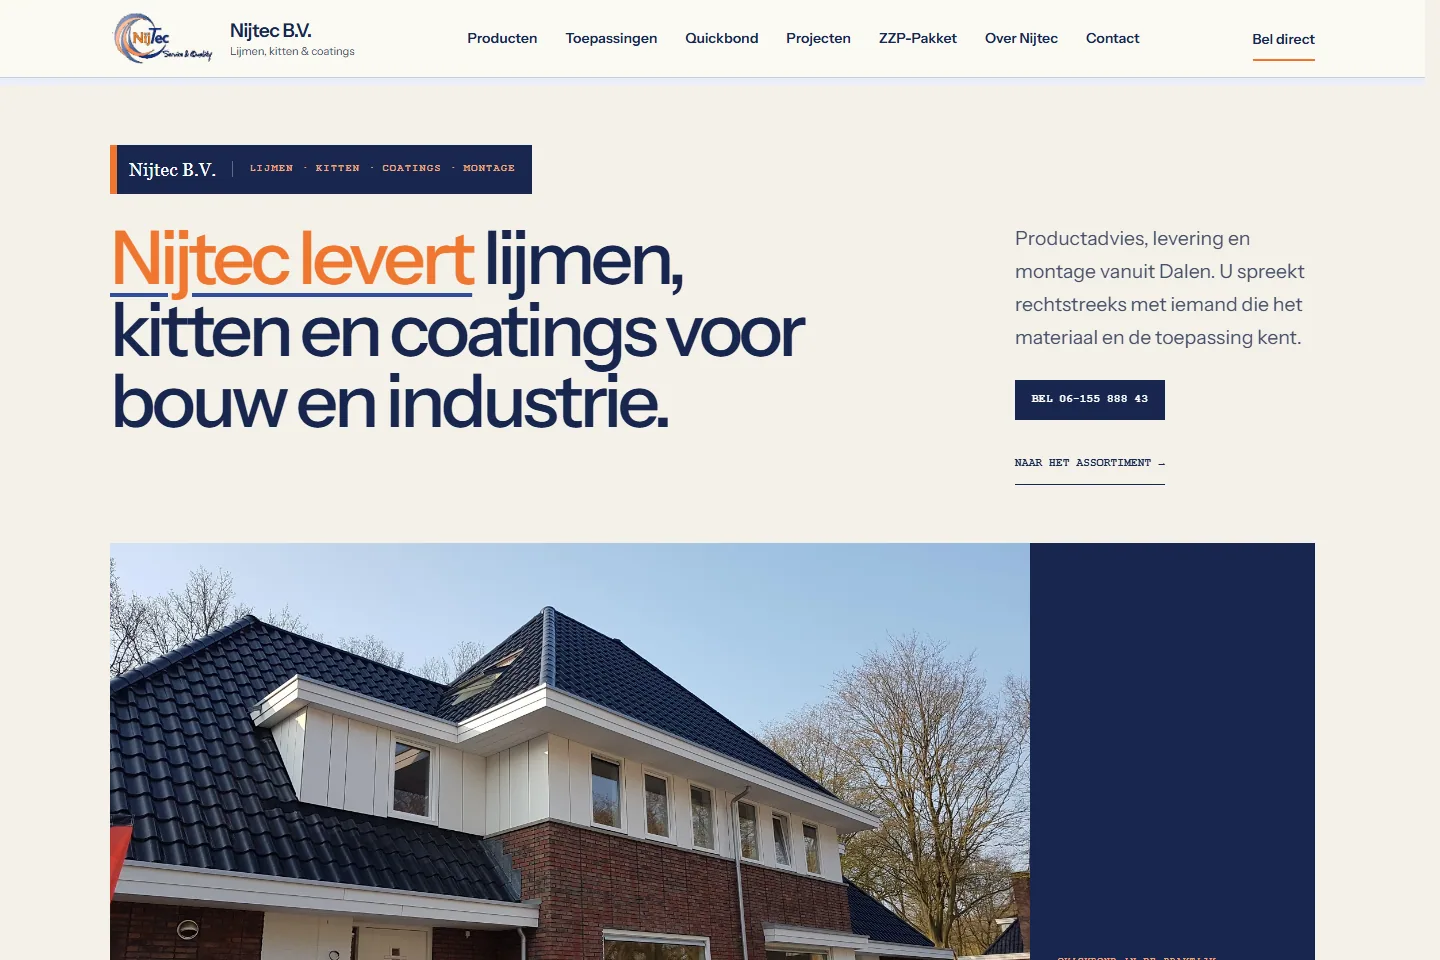
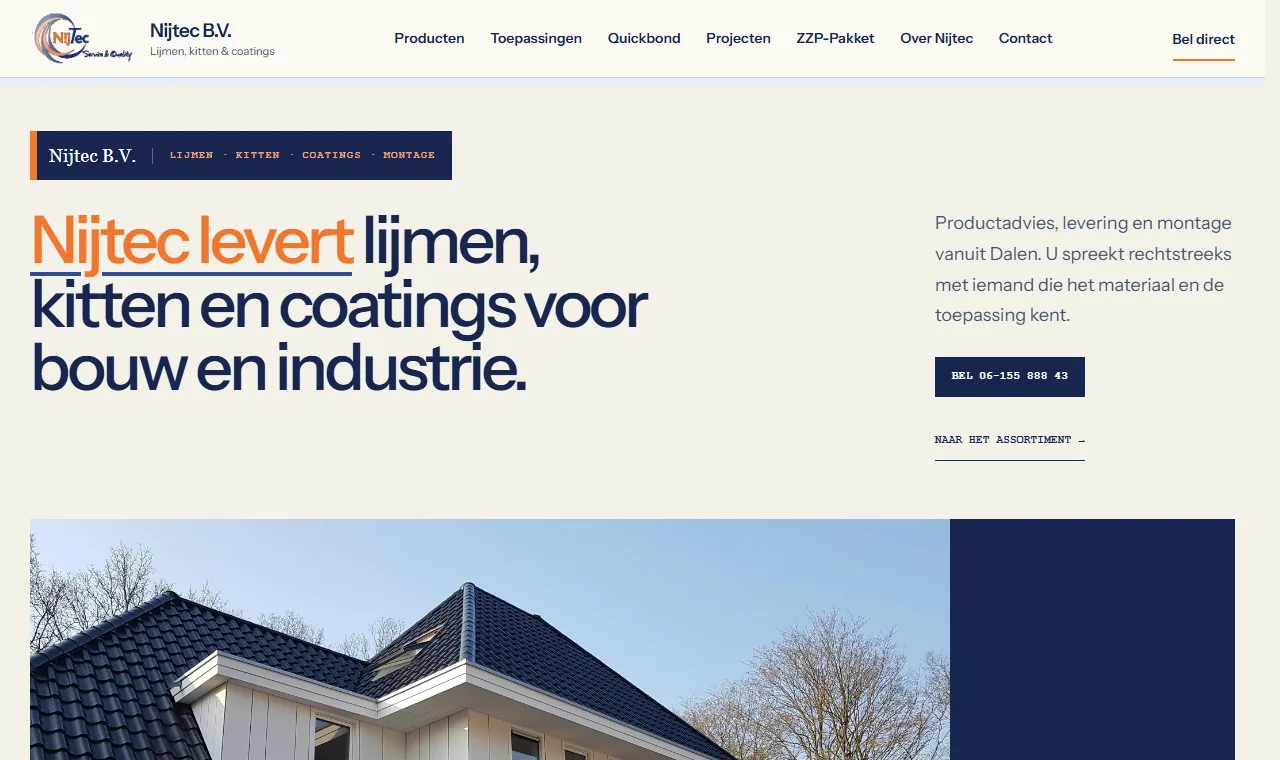
Refine portfolio previews and AI positioning

diff --git a/index.html b/index.html
@@ -4,10 +4,10 @@
 <meta charset="UTF-8">
 <meta name="viewport" content="width=device-width, initial-scale=1.0">
 <title>Webdesign & AI Automatisering voor MKB | Briqk</title>
-<meta name="description" content="Briqk ontwerpt onderscheidende websites en slimme AI-automatiseringen voor MKB. Bekijk onze cases voor Nijtec en Stoke & Smoke en test onze live demo's.">
+<meta name="description" content="Briqk doorgrondt klantprocessen en vertaalt die naar onderscheidende websites, gespecialiseerde AI en slimme automatisering voor het MKB.">
 <meta name="keywords" content="website laten maken, website laten maken MKB, website laten maken Arnhem, AI website laten maken, chatbot laten maken, WhatsApp bot, AI automatisering, website met chatbot, professionele website ZZP, website Arnhem">
 <meta property="og:title" content="Webdesign & AI Automatisering voor MKB | Briqk">
-<meta property="og:description" content="Onderscheidende websites, AI-assistenten en automatiseringen. Bekijk het werk van Briqk voor Nijtec en Stoke & Smoke.">
+<meta property="og:description" content="Onderscheidend webdesign, gespecialiseerde AI en automatisering op maat — gebouwd vanuit een grondig begrip van jouw klantproces.">
 <meta property="og:image" content="https://briqk.nl/og-image-2026.png">
 <meta property="og:image:width" content="1200">
 <meta property="og:image:height" content="630">
@@ -17,14 +17,14 @@
 <meta property="og:locale" content="nl_NL">
 <meta name="twitter:card" content="summary_large_image">
 <meta name="twitter:title" content="Webdesign & AI Automatisering voor MKB | Briqk">
-<meta name="twitter:description" content="Onderscheidende websites, AI-assistenten en automatiseringen voor ambitieuze MKB-bedrijven.">
+<meta name="twitter:description" content="Webdesign, gespecialiseerde AI en automatisering op maat — gebouwd vanuit jouw klantproces.">
 <meta name="twitter:image" content="https://briqk.nl/og-image-2026.png">
 <meta name="twitter:image:alt" content="Briqk — AI automatisering en websites voor het MKB">
 <meta name="theme-color" content="#080808">
 <link rel="canonical" href="https://briqk.nl">
 <link rel="icon" type="image/png" href="/favicon.png">
 <link rel="shortcut icon" href="/favicon.ico">
-<script type="application/ld+json">{"@context":"https://schema.org","@graph":[{"@type":["Organization","ProfessionalService"],"@id":"https://briqk.nl/#organization","name":"Briqk","legalName":"Kootstra Digital","url":"https://briqk.nl","logo":"https://briqk.nl/briqk_logo_square.png","image":"https://briqk.nl/og-image-2026.png","email":"info@briqk.nl","address":{"@type":"PostalAddress","addressLocality":"Arnhem","addressRegion":"Gelderland","addressCountry":"NL"},"description":"Briqk ontwerpt onderscheidende websites en bouwt AI-assistenten, automatiseringen en klantportalen voor MKB.","priceRange":"€€","areaServed":{"@type":"Country","name":"Nederland"},"hasOfferCatalog":{"@type":"OfferCatalog","name":"Webdesign en AI-diensten","itemListElement":[{"@type":"Offer","itemOffered":{"@type":"Service","name":"Starter Website","url":"https://briqk.nl/website-laten-maken-mkb"},"price":"850","priceCurrency":"EUR"},{"@type":"Offer","itemOffered":{"@type":"Service","name":"Pro Website met AI-assistent","url":"https://briqk.nl/ai-website-laten-maken"},"price":"1750","priceCurrency":"EUR"},{"@type":"Offer","itemOffered":{"@type":"Service","name":"AI-automatisering","url":"https://briqk.nl/blog/ai-automatisering-mkb"}}]}},{"@type":"ItemList","@id":"https://briqk.nl/#selected-work","name":"Selected work van Briqk","itemListElement":[{"@type":"ListItem","position":1,"item":{"@type":"WebSite","name":"Nijtec B.V.","url":"https://nijtec.nl/","creator":{"@id":"https://briqk.nl/#organization"}}},{"@type":"ListItem","position":2,"item":{"@type":"WebSite","name":"Stoke & Smoke","url":"https://briqk-stokeandsmoke.vercel.app/","creator":{"@id":"https://briqk.nl/#organization"}}}]}]}</script>
+<script type="application/ld+json">{"@context":"https://schema.org","@graph":[{"@type":["Organization","ProfessionalService"],"@id":"https://briqk.nl/#organization","name":"Briqk","legalName":"Kootstra Digital","url":"https://briqk.nl","logo":"https://briqk.nl/briqk_logo_square.png","image":"https://briqk.nl/og-image-2026.png","email":"info@briqk.nl","address":{"@type":"PostalAddress","addressLocality":"Arnhem","addressRegion":"Gelderland","addressCountry":"NL"},"description":"Briqk doorgrondt klantprocessen en vertaalt die naar onderscheidende websites, gespecialiseerde AI, automatiseringen en klantportalen voor het MKB.","priceRange":"€€","areaServed":{"@type":"Country","name":"Nederland"},"hasOfferCatalog":{"@type":"OfferCatalog","name":"Webdesign en AI-diensten","itemListElement":[{"@type":"Offer","itemOffered":{"@type":"Service","name":"Starter Website","url":"https://briqk.nl/website-laten-maken-mkb"},"price":"850","priceCurrency":"EUR"},{"@type":"Offer","itemOffered":{"@type":"Service","name":"Pro Website met AI-assistent","url":"https://briqk.nl/ai-website-laten-maken"},"price":"1750","priceCurrency":"EUR"},{"@type":"Offer","itemOffered":{"@type":"Service","name":"AI-automatisering","url":"https://briqk.nl/blog/ai-automatisering-mkb"}}]}},{"@type":"ItemList","@id":"https://briqk.nl/#selected-work","name":"Selected work van Briqk","itemListElement":[{"@type":"ListItem","position":1,"item":{"@type":"WebSite","name":"Nijtec B.V.","url":"https://nijtec.nl/","creator":{"@id":"https://briqk.nl/#organization"}}},{"@type":"ListItem","position":2,"item":{"@type":"WebSite","name":"Stoke & Smoke","url":"https://briqk-stokeandsmoke.vercel.app/","creator":{"@id":"https://briqk.nl/#organization"}}}]}]}</script>
 <script>document.documentElement.classList.add('js');</script>
 <link rel="preconnect" href="https://fonts.googleapis.com">
 <link rel="preconnect" href="https://fonts.gstatic.com" crossorigin>
@@ -460,19 +460,21 @@
   .work-section .section-tag { color: #527015; }
   .work-section .section-title { color: var(--ink); max-width: 760px; }
   .work-intro { color: #565e58; font-size: 16px; line-height: 1.8; max-width: 540px; justify-self: end; }
-  .case-list { display: grid; gap: 34px; }
-  .case-card { display: grid; grid-template-columns: minmax(0, 1.45fr) minmax(300px, .55fr); background: #fbf9f4; border: 1px solid rgba(16,20,18,.1); border-radius: 26px; overflow: hidden; min-height: 550px; box-shadow: 0 30px 90px rgba(24,31,27,.08); }
-  .case-card:nth-child(even) { grid-template-columns: minmax(300px, .55fr) minmax(0, 1.45fr); }
-  .case-card:nth-child(even) .case-visual { order: 2; }
-  .case-visual { min-width: 0; position: relative; background: #d9d6ce; overflow: hidden; }
-  .case-visual img { display: block; width: 100%; height: 100%; object-fit: cover; object-position: top center; transition: transform .7s cubic-bezier(.2,.75,.25,1); }
-  .case-card:hover .case-visual img { transform: scale(1.018); }
+  .case-list { display: grid; grid-template-columns: repeat(2, minmax(0, 1fr)); gap: 22px; align-items: stretch; }
+  .case-card { display: flex; flex-direction: column; min-width: 0; background: #fbf9f4; border: 1px solid rgba(16,20,18,.1); border-radius: 22px; overflow: hidden; box-shadow: 0 24px 70px rgba(24,31,27,.08); }
+  .case-gallery { position: relative; display: grid; grid-template-columns: minmax(0, 1fr) minmax(88px, 116px); gap: 12px; align-items: center; height: 300px; padding: 14px; background: linear-gradient(145deg, #d8d5cc, #ebe8df); overflow: hidden; }
+  .case-card.stoke-case .case-gallery { background: radial-gradient(circle at 85% 20%, rgba(249,136,7,.22), transparent 32%), #140e0b; }
+  .case-shot { display: flex; align-items: center; justify-content: center; min-width: 0; max-height: 100%; overflow: hidden; border: 1px solid rgba(16,20,18,.13); border-radius: 11px; background: #fff; box-shadow: 0 12px 30px rgba(16,20,18,.16); }
+  .case-shot.desktop { aspect-ratio: 1280 / 760; }
+  .case-shot.mobile { width: 100%; height: 100%; justify-self: end; border-radius: 18px; background: #0b0d0c; }
+  .case-shot img { display: block; width: 100%; height: 100%; object-fit: contain; object-position: top center; transition: transform .55s cubic-bezier(.2,.75,.25,1); }
+  .case-card:hover .case-shot img { transform: scale(1.012); }
   .case-number { position: absolute; left: 20px; top: 20px; display: inline-flex; align-items: center; justify-content: center; min-width: 48px; height: 32px; padding: 0 12px; border-radius: 999px; background: rgba(11,14,13,.88); color: var(--white); font-size: 11px; letter-spacing: .1em; backdrop-filter: blur(12px); }
-  .case-copy { padding: clamp(34px, 5vw, 70px) clamp(28px, 4vw, 58px); display: flex; flex-direction: column; justify-content: center; }
+  .case-copy { display: flex; flex: 1; flex-direction: column; padding: 32px 34px 36px; }
   .case-meta { color: #68716a; font-size: 11px; letter-spacing: .11em; text-transform: uppercase; margin-bottom: 16px; }
-  .case-copy h3 { font-family: var(--font-display); font-size: clamp(34px, 3.5vw, 54px); line-height: 1; letter-spacing: -.05em; }
-  .case-copy > p { color: #555e58; font-size: 15px; line-height: 1.8; margin-top: 20px; }
-  .case-scope { display: flex; flex-wrap: wrap; gap: 8px; margin: 26px 0 32px; }
+  .case-copy h3 { font-family: var(--font-display); font-size: clamp(31px, 3vw, 42px); line-height: 1.03; letter-spacing: -.05em; }
+  .case-copy > p { color: #555e58; font-size: 14px; line-height: 1.72; margin-top: 18px; }
+  .case-scope { display: flex; flex-wrap: wrap; gap: 7px; margin: 22px 0 26px; }
   .case-scope span { padding: 7px 10px; border: 1px solid rgba(16,20,18,.13); border-radius: 999px; color: #404742; font-size: 11px; }
   .case-link { display: inline-flex; align-items: center; gap: 10px; width: fit-content; color: var(--ink); text-decoration: none; font-weight: 700; font-size: 13px; padding-bottom: 5px; border-bottom: 1px solid var(--ink); }
   .case-link:hover { color: #527015; border-color: #527015; }
@@ -539,8 +541,7 @@
     .hero-proof { max-width: 680px; }
     .work-head, .standard-head { grid-template-columns: 1fr; gap: 24px; }
     .work-intro { justify-self: start; }
-    .case-card, .case-card:nth-child(even) { grid-template-columns: 1.25fr .75fr; }
-    .case-card:nth-child(even) .case-visual { order: 0; }
+    .case-gallery { grid-template-columns: minmax(0, 1fr) minmax(82px, 104px); height: 280px; }
   }
   @media (max-width: 900px) {
     section { padding: 92px 24px; }
@@ -549,9 +550,8 @@
     .hero-shell { gap: 52px; }
     .hero h1 { font-size: clamp(48px, 11vw, 76px); }
     .capability-strip { margin-top: 48px; }
-    .case-card, .case-card:nth-child(even) { grid-template-columns: 1fr; min-height: 0; }
-    .case-card:nth-child(even) .case-visual { order: 0; }
-    .case-visual { aspect-ratio: 16 / 10; }
+    .case-list { grid-template-columns: 1fr; }
+    .case-gallery { grid-template-columns: minmax(0, 1fr) minmax(82px, 112px); height: 290px; }
     .case-copy { padding: 36px 28px 42px; }
     .standard-grid { grid-template-columns: 1fr; }
   }
@@ -565,6 +565,10 @@
     .work-section { padding-inline: 14px; }
     .work-head { padding-inline: 10px; }
     .case-card { border-radius: 18px; }
+    .case-gallery { grid-template-columns: minmax(0, 1fr) 82px; gap: 8px; height: 220px; padding: 10px; }
+    .case-shot.mobile { border-radius: 12px; }
+    .case-number { left: 14px; top: 14px; min-width: 42px; height: 28px; }
+    .case-copy { padding: 28px 24px 32px; }
     .case-copy h3 { font-size: 34px; }
   }
 </style>
@@ -605,7 +609,7 @@
     <div class="hero-copy">
       <div class="hero-tag">Digital studio · Arnhem</div>
       <h1 id="hero-title">Sterk op het scherm.<br><em>Slim erachter.</em></h1>
-      <p class="hero-sub">Briqk ontwerpt onderscheidende websites en bouwt de automatiseringen die daarna het werk overnemen. Eén partner voor strategie, design, techniek en AI.</p>
+      <p class="hero-sub">We beginnen niet bij een AI-tool, maar bij jouw klantproces. Briqk doorgrondt hoe je bedrijf echt werkt en vertaalt dat naar <strong>onderscheidend webdesign, gespecialiseerde AI en automatisering op maat.</strong></p>
       <div class="hero-actions">
         <a href="#werk" class="btn-primary">Bekijk ons werk <span aria-hidden="true">↓</span></a>
         <a href="#contact" class="btn-ghost">Bespreek jouw idee</a>
@@ -623,7 +627,7 @@
           <li><span class="flow-index">03</span><div><div class="flow-title">Opvolging loopt vanzelf</div><div class="flow-desc">CRM, e-mail, planning en notificaties</div></div><span class="flow-state">Automatisch</span></li>
           <li><span class="flow-index">04</span><div><div class="flow-title">Jij houdt het overzicht</div><div class="flow-desc">Inzicht via het Briqk-klantportaal</div></div><span class="flow-state">Controle</span></li>
         </ol>
-        <div class="system-note">Geen losse website of ondoorzichtige AI-tool, maar één systeem dat bij jouw bedrijf past.</div>
+        <div class="system-note"><strong>Onze voorsprong:</strong> proceskennis en diepgaande AI-expertise in één team. Geen generieke promptlaag, maar een systeem dat jouw bedrijf begrijpt.</div>
       </div>
     </div>
   </div>
@@ -643,30 +647,40 @@
   </div>
   <div class="case-list">
     <article class="case-card reveal">
-      <a class="case-visual" href="https://nijtec.nl/" target="_blank" rel="noopener noreferrer" aria-label="Bekijk de website van Nijtec in een nieuw tabblad">
-        <img src="/assets/cases/nijtec-desktop.webp" width="1440" height="960" loading="lazy" decoding="async" alt="Homepage van Nijtec met een zakelijke typografische stijl in crème, oranje en donkerblauw">
+      <div class="case-gallery" aria-label="Desktop- en mobiele preview van Nijtec">
+        <a class="case-shot desktop" href="https://nijtec.nl/" target="_blank" rel="noopener noreferrer" aria-label="Bekijk Nijtec op desktopformaat in een nieuw tabblad">
+          <img src="/assets/cases/nijtec-desktop.webp" width="1280" height="760" loading="lazy" decoding="async" alt="Desktopweergave van de vernieuwde website van Nijtec">
+        </a>
+        <a class="case-shot mobile" href="https://nijtec.nl/" target="_blank" rel="noopener noreferrer" aria-label="Bekijk Nijtec op mobiel formaat in een nieuw tabblad">
+          <img src="/assets/cases/nijtec-mobile.webp" width="390" height="844" loading="lazy" decoding="async" alt="Mobiele weergave van de vernieuwde website van Nijtec">
+        </a>
         <span class="case-number">01</span>
-      </a>
+      </div>
       <div class="case-copy">
         <div class="case-meta">Nijtec B.V. · Bouw &amp; industrie</div>
-        <h3>Technische expertise, eindelijk helder in beeld.</h3>
+        <h3>Technische expertise, helder in beeld.</h3>
         <p>Een compleet herontwerp voor een specialist in lijmen, kitten, coatings en montage. De nieuwe site vertaalt een breed technisch assortiment naar een rustige, zakelijke ervaring met duidelijke productroutes.</p>
-        <div class="case-scope"><span>Strategie</span><span>Art direction</span><span>Webdesign</span><span>Development</span><span>Responsive</span></div>
+        <div class="case-scope"><span>Strategie</span><span>Art direction</span><span>Webdesign</span><span>Development</span></div>
         <a class="case-link" href="https://nijtec.nl/" target="_blank" rel="noopener noreferrer">Bekijk de website <span aria-hidden="true">↗</span><span class="sr-only"> van Nijtec (opent in een nieuw tabblad)</span></a>
       </div>
     </article>
-    <article class="case-card reveal">
-      <a class="case-visual" href="https://briqk-stokeandsmoke.vercel.app/" target="_blank" rel="noopener noreferrer" aria-label="Bekijk de websitecase van Stoke &amp; Smoke in een nieuw tabblad">
-        <img src="/assets/cases/stoke-smoke-desktop.webp" width="1440" height="960" loading="lazy" decoding="async" alt="Homepage van Stoke &amp; Smoke met een donkere vuurlook en grote foto van een smashburger">
+    <article class="case-card stoke-case reveal">
+      <div class="case-gallery" aria-label="Desktop- en mobiele preview van Stoke &amp; Smoke">
+        <a class="case-shot desktop" href="https://briqk-stokeandsmoke.vercel.app/" target="_blank" rel="noopener noreferrer" aria-label="Bekijk Stoke &amp; Smoke op desktopformaat in een nieuw tabblad">
+          <img src="/assets/cases/stoke-smoke-desktop.webp" width="1280" height="760" loading="lazy" decoding="async" alt="Desktopweergave van de website van Stoke &amp; Smoke">
+        </a>
+        <a class="case-shot mobile" href="https://briqk-stokeandsmoke.vercel.app/" target="_blank" rel="noopener noreferrer" aria-label="Bekijk Stoke &amp; Smoke op mobiel formaat in een nieuw tabblad">
+          <img src="/assets/cases/stoke-smoke-mobile.webp" width="390" height="844" loading="lazy" decoding="async" alt="Mobiele weergave van de website van Stoke &amp; Smoke">
+        </a>
         <span class="case-number">02</span>
-      </a>
+      </div>
       <div class="case-copy">
         <div class="case-meta">Stoke &amp; Smoke · BBQ catering</div>
         <h3>Je ruikt het vuur bijna door je scherm.</h3>
         <p>Een food-first website voor BBQ-catering uit Arnhem. Donker, warm en uitgesproken, met fotografie in de hoofdrol en een korte route van sfeer naar aanvraag via e-mail of WhatsApp.</p>
-        <div class="case-scope"><span>Concept</span><span>Art direction</span><span>Webdesign</span><span>Micro-interacties</span><span>Leadflow</span></div>
+        <div class="case-scope"><span>Concept</span><span>Art direction</span><span>Webdesign</span><span>Leadflow</span></div>
         <a class="case-link" href="https://briqk-stokeandsmoke.vercel.app/" target="_blank" rel="noopener noreferrer">Bekijk de website <span aria-hidden="true">↗</span><span class="sr-only"> van Stoke &amp; Smoke (opent in een nieuw tabblad)</span></a>
-        <p class="case-disclaimer">De vernieuwde productieversie staat op onze publieke project-URL; het eigen domein wordt nog gekoppeld.</p>
+        <p class="case-disclaimer">Nieuwe productieversie; het eigen domein wordt nog gekoppeld.</p>
       </div>
     </article>
   </div>
@@ -709,13 +723,13 @@
 <section id="diensten-detail">
   <div class="section-tag">Capabilities</div>
   <h2 class="section-title">Mooi waar het moet. Slim waar het kan.</h2>
-  <p class="section-sub">Van een merkwaardige website tot een complete digitale workflow. Modulair gebouwd, zodat je kunt starten met wat nu het meeste oplevert.</p>
+  <p class="section-sub">Van een onderscheidende website tot een complete digitale workflow. We brengen eerst klantreis, werkproces en knelpunten in kaart; daarna bepalen we waar AI echt waarde toevoegt.</p>
   <div class="pillars-grid">
     <div class="pillar reveal">
       <div class="pillar-icon">⚙</div>
       <div class="pillar-tag">Processen</div>
       <h3>AI Automatisering</h3>
-      <p>Laat terugkerend werk doorlopen zonder extra handelingen. Van nieuwe lead tot CRM, notificatie en opvolging.</p>
+      <p>Geen standaardbot of losse AI-truc. We begrijpen eerst het proces achter je klant en bouwen daarna een gespecialiseerde workflow: van nieuwe lead tot CRM, notificatie en opvolging.</p>
       <div class="pillar-items">
         <div class="pillar-item">Lead routing naar CRM</div>
         <div class="pillar-item">Automatische e-mail follow-ups</div>
